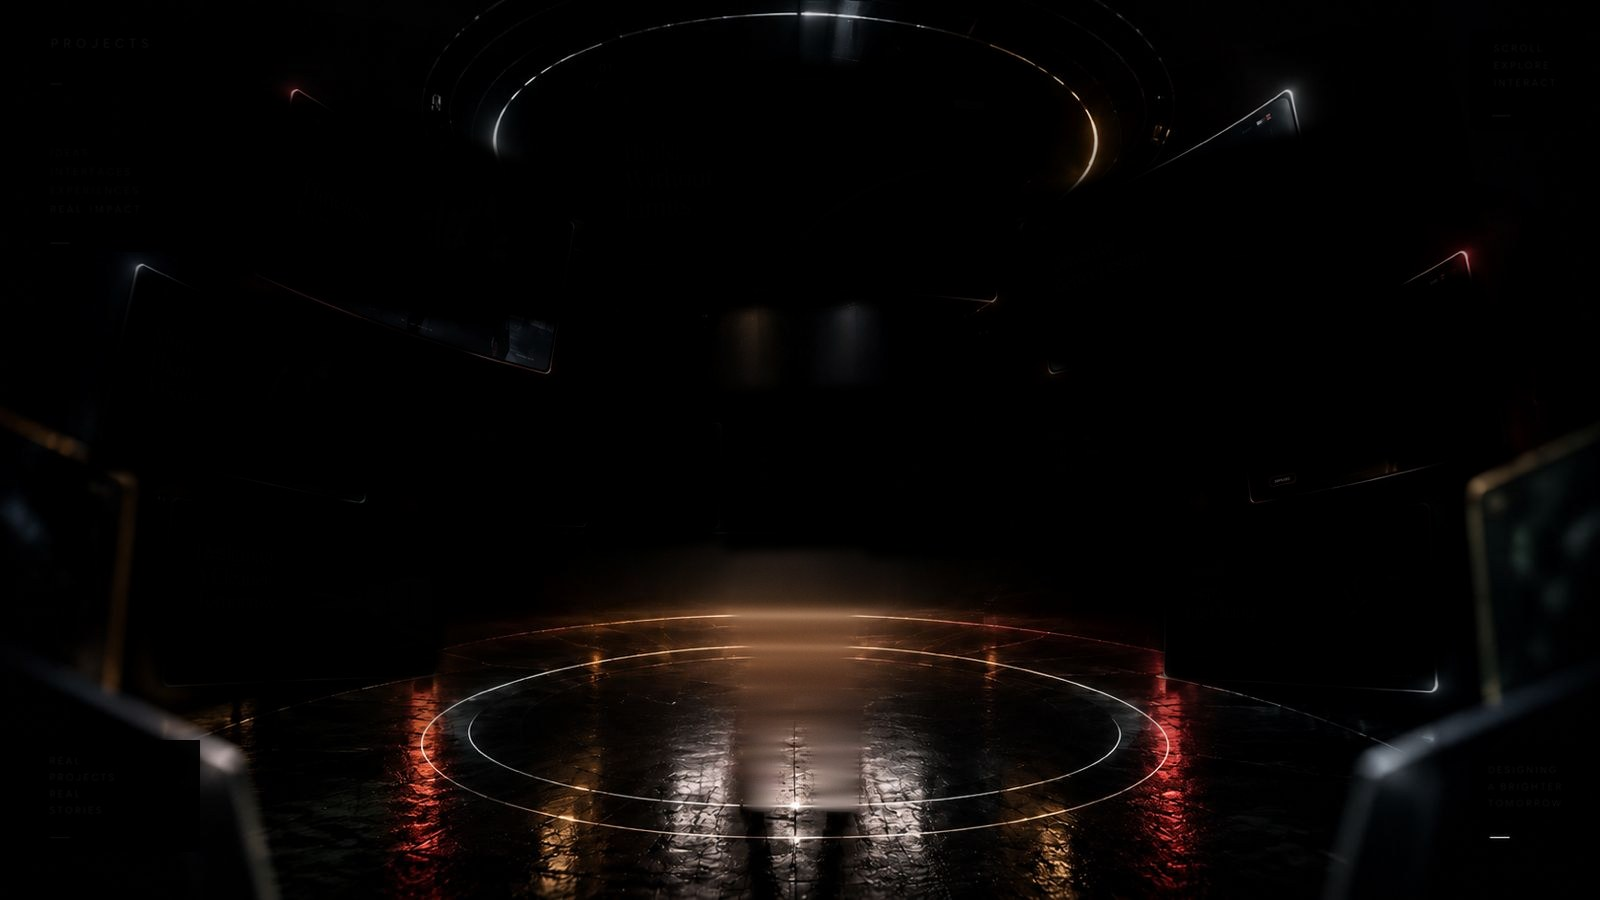
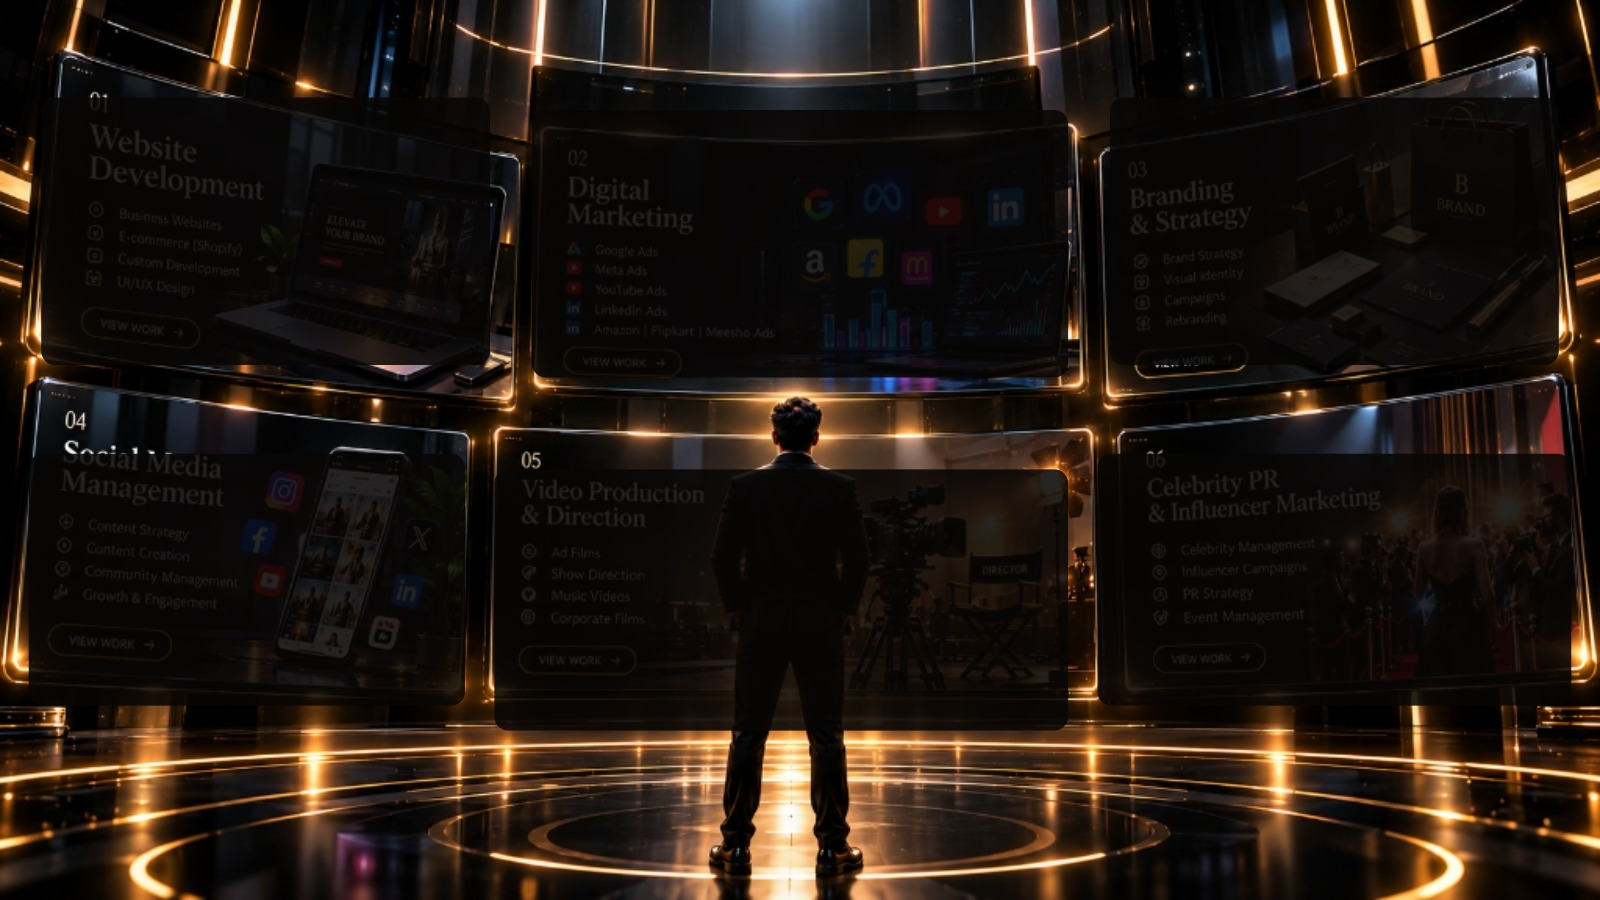
Transform Scene 04 Gallery into 6 curved digital marketing & services screens

diff --git a/src/scene4/layout4.js b/src/scene4/layout4.js
@@ -10,52 +10,34 @@
 export const FRAME = [1600, 900];
 
 export const CARDS = [
-  { id: 'p01_timeless', title: 'Timeless Experiences',
-    box: [213, 72, 384, 273], depth: 0.45,
-    tint: [0.309, 0.334, 0.382] },
-  { id: 'p02_game', title: 'More Than A Game',
-    box: [63, 251, 428, 269], depth: 0.25,
-    tint: [0.249, 0.267, 0.295] },
-  { id: 'p03_build', title: 'Build Without Limits',
-    box: [566, 41, 471, 288], depth: 0.6,
-    tint: [0.414, 0.291, 0.291] },
-  { id: 'p04_driven', title: 'Driven by Better Design',
-    box: [998, 95, 460, 377], depth: 0.45,
-    tint: [0.322, 0.278, 0.261] },
-  { id: 'p05_ideas', title: 'Your Ideas In Motion',
-    box: [394, 358, 232, 198], depth: 0.8,
-    tint: [0.39, 0.303, 0.234] },
-  { id: 'p06_sound', title: 'Sound & Second Motion',
-    box: [568, 364, 173, 203], depth: 0.9,
-    tint: [0.336, 0.324, 0.333] },
-  { id: 'p07_food', title: 'Good Food Brighter Moods',
-    box: [698, 366, 211, 204], depth: 1.0,
-    tint: [0.336, 0.243, 0.217] },
-  { id: 'p08_travel', title: 'Travel Explore Belong',
-    box: [844, 370, 195, 206], depth: 0.9,
-    tint: [0.26, 0.32, 0.366] },
-  { id: 'p09_space', title: 'Find Your Space',
-    box: [988, 364, 231, 208], depth: 0.8,
-    tint: [0.336, 0.283, 0.269] },
-  { id: 'p10_play', title: 'Play Create Repeat',
-    box: [1181, 251, 355, 242], depth: 0.3,
-    tint: [0.448, 0.305, 0.235] },
-  { id: 'p11_cleaner', title: 'Designing A Cleaner Tomorrow',
-    box: [118, 467, 345, 243], depth: 0.1,
-    tint: [0.311, 0.339, 0.263] },
-  { id: 'p12_steps', title: 'Small Steps Big Change',
-    box: [1139, 478, 325, 234], depth: 0.1,
-    tint: [0.31, 0.317, 0.302] },
+  { id: 'p01_web', title: 'Website Development',
+    box: [31, 88, 469, 288], depth: 0.45,
+    tint: [0.45, 0.35, 0.20] },
+  { id: 'p02_marketing', title: 'Digital Marketing',
+    box: [522, 100, 556, 288], depth: 0.60,
+    tint: [0.45, 0.35, 0.20] },
+  { id: 'p03_branding', title: 'Branding & Strategy',
+    box: [1100, 88, 469, 288], depth: 0.45,
+    tint: [0.45, 0.35, 0.20] },
+  { id: 'p04_social', title: 'Social Media Management',
+    box: [19, 444, 456, 272], depth: 0.25,
+    tint: [0.45, 0.35, 0.20] },
+  { id: 'p05_video', title: 'Video Production & Direction',
+    box: [484, 459, 594, 281], depth: 0.70,
+    tint: [0.45, 0.35, 0.20] },
+  { id: 'p06_pr', title: 'Celebrity PR & Influencer Marketing',
+    box: [1088, 444, 494, 272], depth: 0.25,
+    tint: [0.45, 0.35, 0.20] },
 ];
 
 // the central figure: crop box in frame px (his lighting is baked in)
-export const PERSON = { x: 718, y: 483, w: 160, h: 335 };
+export const PERSON = { x: 710, y: 440, w: 180, h: 420 };
 
 // the floor's lit ellipses (centre x, centre y, rx, ry) and the overhead ring,
 // used by the live glints the canvas draws over the baked plate
-export const FLOOR_OUT = [798, 735, 372, 80];
-export const FLOOR_IN = [798, 741, 240, 57];
-export const RING = [802, 34, 392, 148];
+export const FLOOR_OUT = [800, 830, 480, 110];
+export const FLOOR_IN = [800, 835, 320, 75];
+export const RING = [800, 60, 460, 160];
 
 /** Cover-fit the reference frame onto a viewport. */
 export function fitCover(w, h) {
@@ -63,20 +45,12 @@ export function fitCover(w, h) {
   return { s, ox: (w - FRAME[0] * s) / 2, oy: (h - FRAME[1] * s) / 2 };
 }
 
-// --------------------------------------------------------------------------
-// Portrait is a recomposition, not a crop: cover-fitting a 16:9 amphitheatre
-// to a phone leaves only the centre quarter on screen. The plate still cover-
-// fits (floor, circle and haze survive centred), and a curated set of cards
-// restacks into a column that keeps the reference hierarchy: hero screen up
-// top, the small row over the figure, the two green closers at his feet.
-// Entries: card index -> centre x/y (viewport fractions), width (vw fraction).
-// --------------------------------------------------------------------------
+// Portrait recomposition for tall phone viewports
 export const PORTRAIT = new Map([
-  [2, { cx: 0.50, cy: 0.235, w: 0.80 }],   // build
-  [0, { cx: 0.235, cy: 0.385, w: 0.50 }],  // timeless
-  [3, { cx: 0.77, cy: 0.39, w: 0.48 }],    // driven
-  [6, { cx: 0.325, cy: 0.53, w: 0.29 }],   // food
-  [7, { cx: 0.675, cy: 0.53, w: 0.29 }],   // travel
-  [10, { cx: 0.20, cy: 0.815, w: 0.48 }],  // cleaner
-  [11, { cx: 0.80, cy: 0.815, w: 0.48 }],  // steps
+  [1, { cx: 0.50, cy: 0.20, w: 0.88 }],  // Digital Marketing
+  [0, { cx: 0.28, cy: 0.38, w: 0.44 }],  // Website Development
+  [2, { cx: 0.72, cy: 0.38, w: 0.44 }],  // Branding & Strategy
+  [4, { cx: 0.50, cy: 0.56, w: 0.88 }],  // Video Production & Direction
+  [3, { cx: 0.28, cy: 0.74, w: 0.44 }],  // Social Media Management
+  [5, { cx: 0.72, cy: 0.74, w: 0.44 }],  // Celebrity PR
 ]);

diff --git a/index.html b/index.html
@@ -174,20 +174,19 @@
              src="public/projects/person.png" alt="" draggable="false">
       </div>
 
-      <h2 class="g-label g-label--projects" id="galleryTitle">Projects</h2>
+      <h2 class="g-label g-label--projects" id="galleryTitle">Services &amp; Works</h2>
       <p class="g-label g-label--ideas" aria-hidden="true">
-        Ideas<br>Interfaces<br>Experiences<br><b>Real Impact</b>
+        Strategy<br>Performance<br>Production<br><b>Real Impact</b>
       </p>
       <p class="g-label g-label--scroll" aria-hidden="true">
         Scroll<br>Explore<br>Interact
       </p>
       <p class="g-label g-label--real" aria-hidden="true">
-        Real<br>Projects<br>Real<br>Stories
+        Creative<br>Campaigns<br>Media<br>Direction
       </p>
       <p class="g-label g-label--tomorrow" aria-hidden="true">
-        Designing<br>A Brighter<br>Tomorrow
+        Delivering<br>Measurable<br>Growth
       </p>
-      <span class="g-label g-label--num" id="galleryNum" aria-hidden="true">01</span>
     </div>
   </section>
 

diff --git a/src/styles/projects.css b/src/styles/projects.css
@@ -101,12 +101,7 @@
 }
 
 .gallery__person {
-  position: absolute;
-  display: block;
-  opacity: 0;
-  pointer-events: none;
-  user-select: none;
-  will-change: transform, opacity;
+  display: none;
 }
 
 /* --------------------------------------------------------------------------
@@ -153,8 +148,7 @@
   opacity: 0.55;
 }
 .g-label--ideas {
-  top: clamp(90px, 15.5vh, 150px);
-  left: clamp(20px, 3vw, 52px);
+  display: none;
 }
 .g-label--ideas b { font-weight: 500; color: rgba(232, 226, 220, 0.82); }
 .g-label--scroll {
